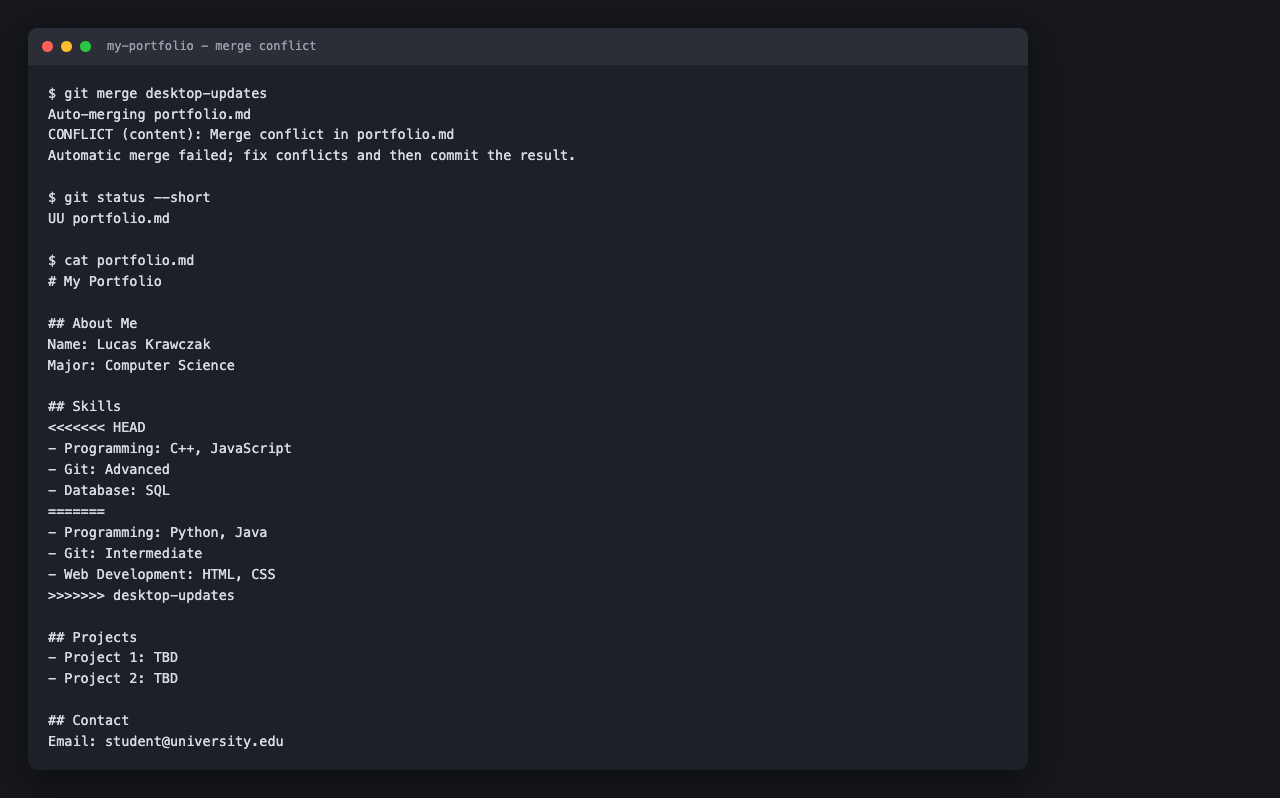
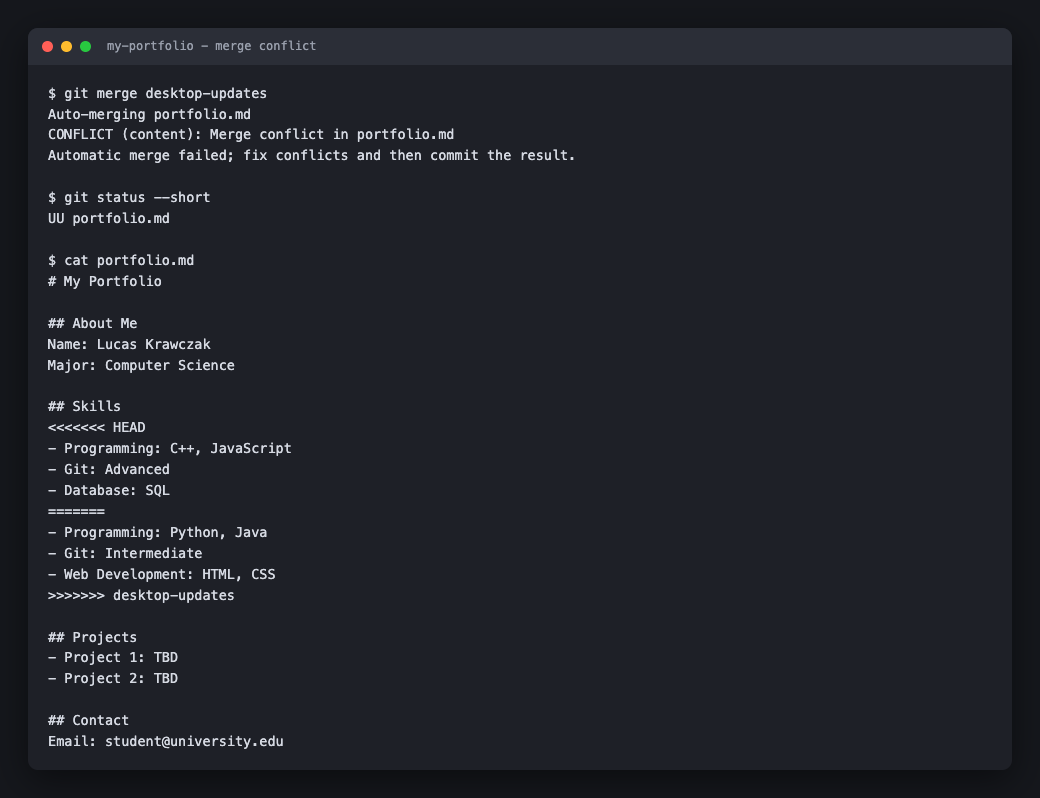
Prep Lab 6 and Lab 7 for submission
Drops Exercise 2 from the Lab 6 write-up along with its checklist entry and the
rubric note that only existed because of it. Retitles Lab 6 since Collaboration
referred to that exercise.

Removes every em dash and en dash from both write-ups.

Shortens the AI disclosure to one line.

Regenerates the terminal screenshots against a narrow viewport so a full-page
capture hugs the content instead of padding the image with dead background.

diff --git a/workshop/ws7/done-lab-07.md b/workshop/ws7/done-lab-07.md
@@ -1,4 +1,4 @@
-# Lab 7: Git Exercises — Merge Conflicts and Bisect
+# Lab 7: Merge Conflicts and Bisect
 
 Student: Lucas Krawczak
 Completed: 2026-10-14
@@ -50,7 +50,7 @@ Final Skills section:
 - Database: SQL
 ```
 
-### Verification — `git log --oneline --graph --all`
+### Verification: `git log --oneline --graph --all`
 
 ![Resolved merge and the final file](screenshots/ws7-ex1-graph.png)
 
@@ -70,7 +70,7 @@ two separate lines of work got rejoined.
 
 **1. Why did the conflict occur? What lines were changed in both branches?**
 
-Both branches rewrote the same three lines — the contents of the `## Skills` section.
+Both branches rewrote the same three lines, the contents of the `## Skills` section.
 Desktop made them Python/Java, Intermediate, Web Development. Main made them
 C++/JavaScript, Advanced, Database. Same lines, two different answers.
 
@@ -117,7 +117,7 @@ the content means. The tool got me to the decision and then got out of the way.
 **5. How did Git help you identify where the conflict was?**
 
 It named the file, wrote the markers straight into it so the exact region was visible
-in my editor, and labelled both sides — `HEAD` for where I was, `desktop-updates` for
+in my editor, and labelled both sides: `HEAD` for where I was, `desktop-updates` for
 what was coming in. `git status` kept the file under "Unmerged paths" until I staged it.
 
 It never tried to guess. It just showed me precisely what it could not decide.
@@ -192,8 +192,8 @@ Seven commits, three checks. Matches the diagram in the lab exactly.
 About 7. Bisect throws away half the remaining range every answer, so the cost is
 log₂(n), not n. A thousand commits is about 10 checks.
 
-That's the part that surprised me. Going from 100 commits to 1000 — ten times the
-history — costs three more checks. The search barely notices how big the repo got.
+That's the part that surprised me. Going from 100 commits to 1000, ten times the
+history, costs three more checks. The search barely notices how big the repo got.
 
 **3. How is bisect different from manually checking each commit with `git checkout`?**
 
@@ -214,7 +214,7 @@ history between the last version that worked and now. "This passed in last month
 release and fails today" across a few hundred commits is exactly the shape.
 
 It gets better if the check can be scripted. `git bisect run <script>` finds the
-commit with zero input from me — I describe what "broken" means once, and it does
+commit with zero input from me. I describe what "broken" means once, and it does
 every check itself.
 
 **5. What information do you need to start a bisect session?**
@@ -240,8 +240,7 @@ the question you're answering at each step.
 - [x] Bisect output showing which commit had the bug (commit 5, `d2c3160`)
 - [x] `git log --oneline` after fixing the bug
 - [x] Answers to all 5 reflection questions
-- [ ] (Optional) Challenge: second bug hunt — not attempted
+- [ ] (Optional) Challenge: second bug hunt, not attempted
 
 ---
-*Commands executed and write-up assisted with AI (Claude) per course policy on tool
-use, same as Lab 2. Reflections are my own positions — review before submitting.*
+*AI-assisted (Claude), per course policy.*

diff --git a/workshop/ws6/done-lab-06.md b/workshop/ws6/done-lab-06.md
@@ -1,11 +1,11 @@
-# Lab 6: Essay Project, Collaboration, and Fixing Mistakes
+# Lab 6: Essay Project and Fixing Mistakes
 
 Student: Lucas Krawczak
-Completed: 2026-10-14 (Exercises 1 and 3; Exercise 2 blocked — see below)
+Completed: 2026-10-14
 Solo lab (no team requirement).
 
-Repository used: [zordhalo/my-essay](https://github.com/zordhalo/my-essay) — **public**,
-so it can be verified directly.
+Repository used: [zordhalo/my-essay](https://github.com/zordhalo/my-essay)
+(**public**, so it can be verified directly).
 
 Screenshots in `screenshots/`.
 
@@ -77,34 +77,6 @@ are what turn history into something you can actually read later.
 
 ---
 
-## Exercise 2: Collaboration Practice — BLOCKED
-
-This exercise requires forking an instructor-created `class-resources` repository.
-
-**As of 2026-10-14 that repository does not exist.** The `seneca-cep146` organisation
-contains only the `cep146` course repo:
-
-```
-$ gh repo list seneca-cep146
-seneca-cep146/cep146    public    2026-10-09T22:39:54Z
-
-$ gh search repos class-resources --owner seneca-cep146
-(no results)
-```
-
-Nothing to fork until the instructor publishes it, or tells the class where it
-actually lives — a different org, or a private repo needing an invite.
-
-**Action required:** get the `class-resources` URL from the instructor, then run
-fork → edit → pull request. The steps don't change:
-
-1. Fork the repository
-2. Edit the resources file with the pencil icon, add a study tip
-3. Commit as "Add study group tip"
-4. Open a pull request explaining the addition
-
----
-
 ## Exercise 3: Fix a Mistake Practice
 
 Committed the error locally and pushed it, then fixed it **on GitHub** rather than
@@ -164,18 +136,11 @@ different and much uglier operation. Supersede fixes wrong. It doesn't fix leake
 - [x] Evidence of both command line (`git log --oneline`, `git diff HEAD~2 HEAD`) and website
 - [x] Answers to reflection questions
 
-### Exercise 2 (Collaboration Practice)
-- [ ] **BLOCKED** — instructor's `class-resources` repository does not exist yet
-
 ### Exercise 3 (Fix Mistake Practice)
 - [x] `facts.txt` created with the intentional Toronto error
 - [x] Corrected to Ottawa through GitHub (server-side commit)
 - [x] Demonstrated mistake remains in history while current version is correct
 - [x] Proper commit message for the correction
 
-**Rubric impact:** 2 of 3 exercises complete lands in the "Fair — 1 mark" band until
-Exercise 2 is done. Chase the instructor for the repository.
-
 ---
-*Commands executed and write-up assisted with AI (Claude) per course policy on tool
-use, same as Lab 2. Reflections are my own positions — review before submitting.*
+*AI-assisted (Claude), per course policy.*
